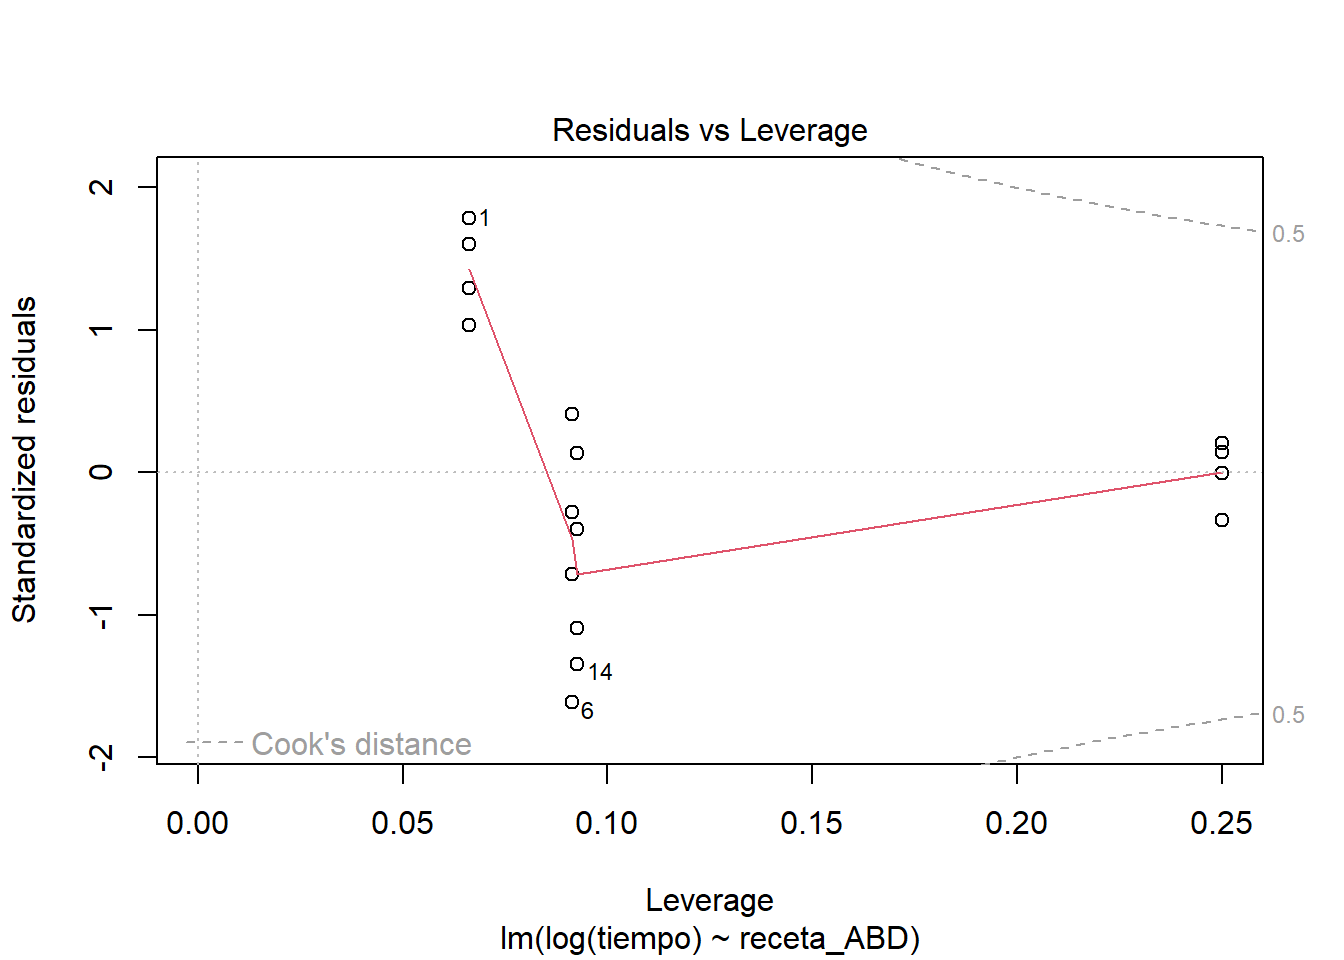
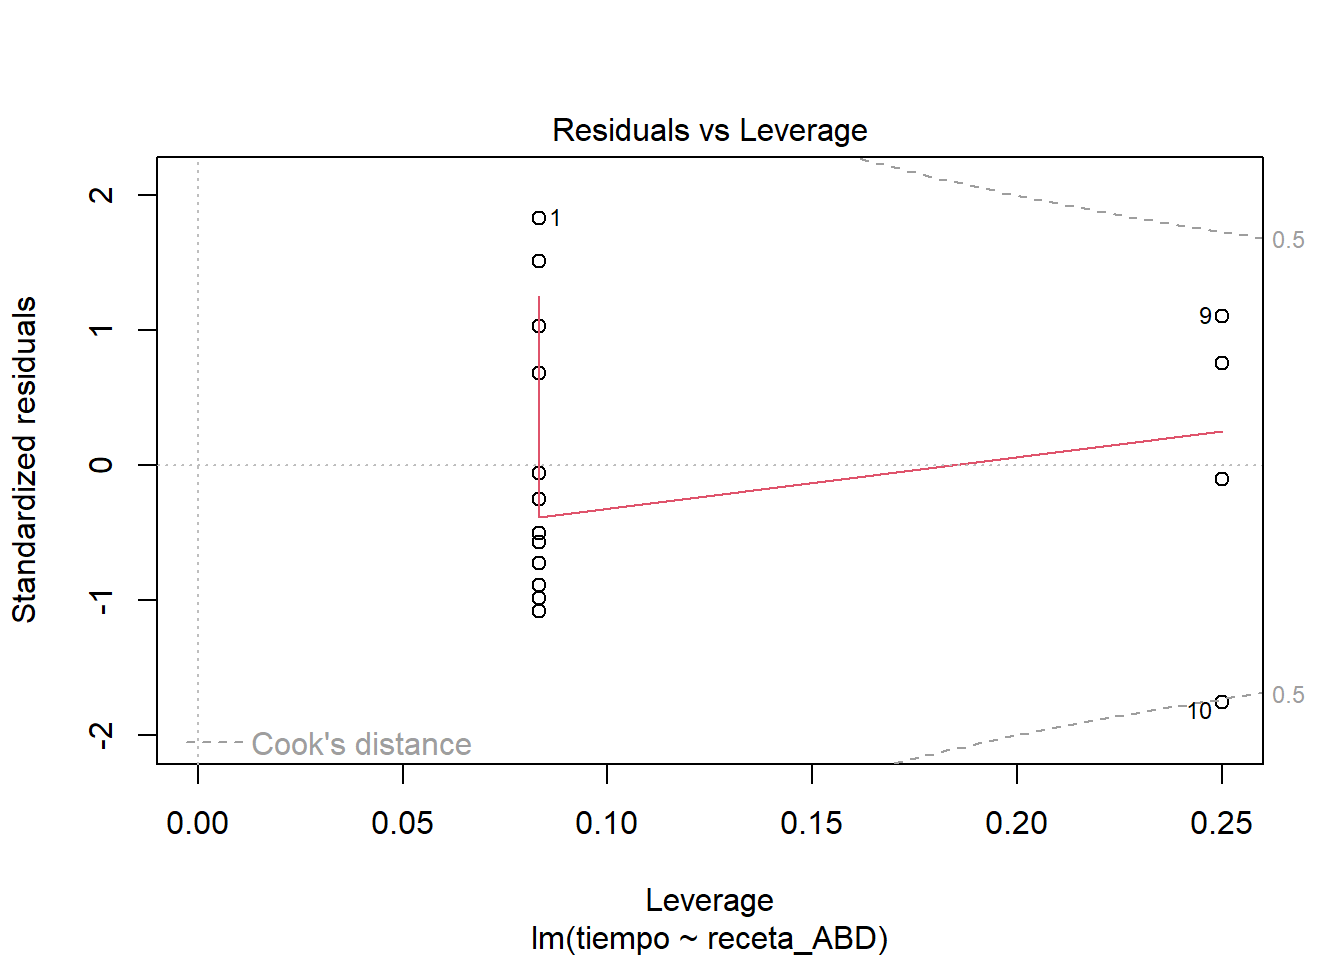
Analizame

diff --git a/Blog/_site/index.html b/Blog/_site/index.html
@@ -149,7 +149,7 @@ ul.task-list li input[type="checkbox"] {
 <!-- margin-sidebar -->
     <div id="quarto-margin-sidebar" class="sidebar margin-sidebar">
         
-    <h5 class="quarto-listing-category-title">Categorías</h5><div class="quarto-listing-category category-default"><div class="category" data-category="">Todas <span class="quarto-category-count">(14)</span></div><div class="category" data-category="anuncios">anuncios <span class="quarto-category-count">(2)</span></div><div class="category" data-category="clase">clase <span class="quarto-category-count">(9)</span></div><div class="category" data-category="taller">taller <span class="quarto-category-count">(1)</span></div></div></div>
+    <h5 class="quarto-listing-category-title">Categorías</h5><div class="quarto-listing-category category-default"><div class="category" data-category="">Todas <span class="quarto-category-count">(13)</span></div><div class="category" data-category="anuncios">anuncios <span class="quarto-category-count">(2)</span></div><div class="category" data-category="clase">clase <span class="quarto-category-count">(9)</span></div><div class="category" data-category="taller">taller <span class="quarto-category-count">(2)</span></div></div></div>
 <!-- main -->
 <main class="content quarto-banner-title-block column-page-left" id="quarto-document-content">
 
@@ -162,71 +162,42 @@ ul.task-list li input[type="checkbox"] {
 
 <div class="quarto-listing quarto-listing-container-default" id="listing-listing">
 <div class="list quarto-listing-default">
-<div class="quarto-post image-right" data-index="0" data-listing-date-sort="1675663200000" data-listing-file-modified-sort="1675645045298" data-listing-reading-time-sort="0.72">
+<div class="quarto-post image-right" data-index="0" data-categories="taller" data-listing-date-sort="1675663200000" data-listing-file-modified-sort="1675664731691" data-listing-reading-time-sort="1.64">
 <div class="thumbnail">
-<a href="./posts/analizame/masa-pizza.html">
-<div class="thumbnail-image">
-
-</div>
-</a><p><a href="./posts/analizame/masa-pizza.html"></a></p>
+<p><a href="./posts/analizame/index.html"> <img src="./posts/analizame/chemistry.jpg" class="thumnail-image"> </a></p>
 </div>
 <div class="body">
-<a href="./posts/analizame/masa-pizza.html">
+<a href="./posts/analizame/index.html">
 <h3 class="no-anchor listing-title">
-Masa para Pizza
+Analízame
 </h3>
 <div class="listing-subtitle">
 
 </div>
+</a>
+<div class="listing-categories">
+<div class="listing-category" onclick="window.quartoListingCategory('taller'); return false;">
+taller
+</div>
+</div>
+<a href="./posts/analizame/index.html">
 <div class="listing-description">
-
+Hagamos el análisis de un par de ejemplos.
 </div>
 </a>
 </div>
 <div class="metadata">
-<a href="./posts/analizame/masa-pizza.html">
+<a href="./posts/analizame/index.html">
 <div class="listing-date">
 6 feb 2023
 </div>
 <div class="listing-author">
-Miguel Equihua
+Miguel Equihua, Alan Aguirre
 </div>
 </a>
 </div>
 </div>
-<div class="quarto-post image-right" data-index="1" data-listing-date-sort="1675663200000" data-listing-file-modified-sort="1675637234396" data-listing-reading-time-sort="5.025">
-<div class="thumbnail">
-<a href="./posts/analizame/venenos.html">
-<div class="thumbnail-image">
-
-</div>
-</a><p><a href="./posts/analizame/venenos.html"></a></p>
-</div>
-<div class="body">
-<a href="./posts/analizame/venenos.html">
-<h3 class="no-anchor listing-title">
-venenos
-</h3>
-<div class="listing-subtitle">
-
-</div>
-<div class="listing-description">
-se nota algo de heterogeneidad de varianzas Intentemos como primer modelo el completo.
-</div>
-</a>
-</div>
-<div class="metadata">
-<a href="./posts/analizame/venenos.html">
-<div class="listing-date">
-6 feb 2023
-</div>
-<div class="listing-author">
-Miguel Equihua
-</div>
-</a>
-</div>
-</div>
-<div class="quarto-post image-right" data-index="2" data-categories="taller" data-listing-date-sort="1675663200000" data-listing-file-modified-sort="1675663422589" data-listing-reading-time-sort="0.415">
+<div class="quarto-post image-right" data-index="1" data-categories="taller" data-listing-date-sort="1675663200000" data-listing-file-modified-sort="1675663422589" data-listing-reading-time-sort="0.415">
 <div class="thumbnail">
 <p><a href="./posts/experimentar/index.html"> <img src="./posts/experimentar/Planeta-en-botella.jpg" class="thumnail-image"> </a></p>
 </div>
@@ -261,7 +232,7 @@ Miguel Equihua, Alan Aguirre
 </a>
 </div>
 </div>
-<div class="quarto-post image-right" data-index="3" data-categories="clase" data-listing-date-sort="1675404000000" data-listing-file-modified-sort="1675615547086" data-listing-reading-time-sort="12.645">
+<div class="quarto-post image-right" data-index="2" data-categories="clase" data-listing-date-sort="1675404000000" data-listing-file-modified-sort="1675615547086" data-listing-reading-time-sort="12.645">
 <div class="thumbnail">
 <p><a href="./posts/medidas-repetidas/index.html"> <img src="./posts/medidas-repetidas/Picea-sitchensis-Sitka-Spruce-08.jpg" class="thumnail-image"> </a></p>
 </div>
@@ -296,7 +267,7 @@ Miguel Equihua, Alan Aguirre
 </a>
 </div>
 </div>
-<div class="quarto-post image-right" data-index="4" data-categories="clase" data-listing-date-sort="1675404000000" data-listing-file-modified-sort="1675387872246" data-listing-reading-time-sort="20.415">
+<div class="quarto-post image-right" data-index="3" data-categories="clase" data-listing-date-sort="1675404000000" data-listing-file-modified-sort="1675387872246" data-listing-reading-time-sort="20.415">
 <div class="thumbnail">
 <p><a href="./posts/modelos-mixtos/index.html"> <img src="./posts/modelos-mixtos/arboles.jpeg" class="thumnail-image"> </a></p>
 </div>
@@ -331,7 +302,7 @@ Miguel Equihua, Alan Aguirre
 </a>
 </div>
 </div>
-<div class="quarto-post image-right" data-index="5" data-categories="clase" data-listing-date-sort="1675317600000" data-listing-file-modified-sort="1675406591221" data-listing-reading-time-sort="7.79">
+<div class="quarto-post image-right" data-index="4" data-categories="clase" data-listing-date-sort="1675317600000" data-listing-file-modified-sort="1675406591221" data-listing-reading-time-sort="7.79">
 <div class="thumbnail">
 <p><a href="./posts/experimentos-anidados/index.html"> <img src="./posts/experimentos-anidados/ratas-de-lab.png" class="thumnail-image"> </a></p>
 </div>
@@ -366,7 +337,7 @@ Miguel Equihua, Alan Aguirre
 </a>
 </div>
 </div>
-<div class="quarto-post image-right" data-index="6" data-categories="clase" data-listing-date-sort="1675231200000" data-listing-file-modified-sort="1675302140389" data-listing-reading-time-sort="8.55">
+<div class="quarto-post image-right" data-index="5" data-categories="clase" data-listing-date-sort="1675231200000" data-listing-file-modified-sort="1675302140389" data-listing-reading-time-sort="8.55">
 <div class="thumbnail">
 <p><a href="./posts/restringir-aleatorizacion/index.html"> <img src="./posts/restringir-aleatorizacion/images/2012-AJ-12-10.jpg" class="thumnail-image"> </a></p>
 </div>
@@ -401,7 +372,7 @@ Miguel Equihua, Alan Aguirre
 </a>
 </div>
 </div>
-<div class="quarto-post image-right" data-index="7" data-categories="clase" data-listing-date-sort="1675058400000" data-listing-file-modified-sort="1675308873288" data-listing-reading-time-sort="7.325">
+<div class="quarto-post image-right" data-index="6" data-categories="clase" data-listing-date-sort="1675058400000" data-listing-file-modified-sort="1675308873288" data-listing-reading-time-sort="7.325">
 <div class="thumbnail">
 <p><a href="./posts/diagramas-causales/index.html"> <img src="./posts/diagramas-causales/images/autores_y_The_Book_of_Why.jpg" class="thumnail-image"> </a></p>
 </div>
@@ -436,7 +407,7 @@ Miguel Equihua, Alan Aguirre
 </a>
 </div>
 </div>
-<div class="quarto-post image-right" data-index="8" data-categories="clase" data-listing-date-sort="1675058400000" data-listing-file-modified-sort="1675220310708" data-listing-reading-time-sort="9.985">
+<div class="quarto-post image-right" data-index="7" data-categories="clase" data-listing-date-sort="1675058400000" data-listing-file-modified-sort="1675220310708" data-listing-reading-time-sort="9.985">
 <div class="thumbnail">
 <p><a href="./posts/dis-comp-aleat/index.html"> <img src="./posts/dis-comp-aleat/maíz.jpg" class="thumnail-image"> </a></p>
 </div>
@@ -471,7 +442,7 @@ Miguel Equihua, Alan Aguirre
 </a>
 </div>
 </div>
-<div class="quarto-post image-right" data-index="9" data-categories="clase" data-listing-date-sort="1674885600000" data-listing-file-modified-sort="1675039033518" data-listing-reading-time-sort="0.775">
+<div class="quarto-post image-right" data-index="8" data-categories="clase" data-listing-date-sort="1674885600000" data-listing-file-modified-sort="1675039033518" data-listing-reading-time-sort="0.775">
 <div class="thumbnail">
 <p><a href="./posts/modelo-lineal/index.html"> <img src="./posts/modelo-lineal/mathematics.jpg" class="thumnail-image"> </a></p>
 </div>
@@ -506,7 +477,7 @@ Miguel Equihua, Alan Aguirre
 </a>
 </div>
 </div>
-<div class="quarto-post image-right" data-index="10" data-categories="clase" data-listing-date-sort="1674799200000" data-listing-file-modified-sort="1675134648050" data-listing-reading-time-sort="27.135">
+<div class="quarto-post image-right" data-index="9" data-categories="clase" data-listing-date-sort="1674799200000" data-listing-file-modified-sort="1675134648050" data-listing-reading-time-sort="27.135">
 <div class="thumbnail">
 <p><a href="./posts/concepto-y-modelos-experimentar/index.html"> <img src="./posts/concepto-y-modelos-experimentar/images/vampiro-dracula.png" class="thumnail-image"> </a></p>
 </div>
@@ -541,7 +512,7 @@ Miguel Equihua, Alan Aguirre
 </a>
 </div>
 </div>
-<div class="quarto-post image-right" data-index="11" data-categories="clase" data-listing-date-sort="1674712800000" data-listing-file-modified-sort="1674880784457" data-listing-reading-time-sort="1.145">
+<div class="quarto-post image-right" data-index="10" data-categories="clase" data-listing-date-sort="1674712800000" data-listing-file-modified-sort="1674880784457" data-listing-reading-time-sort="1.145">
 <div class="thumbnail">
 <p><a href="./posts/leyes-de-la-ciencia/index.html"> <img src="./posts/leyes-de-la-ciencia/abstract-95721_1920.jpg" class="thumnail-image"> </a></p>
 </div>
@@ -576,7 +547,7 @@ Miguel Equihua, Alan Aguirre
 </a>
 </div>
 </div>
-<div class="quarto-post image-right" data-index="12" data-categories="anuncios" data-listing-date-sort="1674626400000" data-listing-file-modified-sort="1674880784378" data-listing-reading-time-sort="3.16">
+<div class="quarto-post image-right" data-index="11" data-categories="anuncios" data-listing-date-sort="1674626400000" data-listing-file-modified-sort="1674880784378" data-listing-reading-time-sort="3.16">
 <div class="thumbnail">
 <p><a href="./posts/bienvenida/index.html"> <img src="./posts/bienvenida/earth-977411_1920.jpg" class="thumnail-image"> </a></p>
 </div>
@@ -611,7 +582,7 @@ Miguel Equihua, Alan Aguirre
 </a>
 </div>
 </div>
-<div class="quarto-post image-right" data-index="13" data-categories="anuncios" data-listing-date-sort="1674626400000" data-listing-file-modified-sort="1674880784439" data-listing-reading-time-sort="0.25">
+<div class="quarto-post image-right" data-index="12" data-categories="anuncios" data-listing-date-sort="1674626400000" data-listing-file-modified-sort="1674880784439" data-listing-reading-time-sort="0.25">
 <div class="thumbnail">
 <p><a href="./posts/evaluacion/index.html"> <img src="./posts/evaluacion/virtual-5663279_1280.png" class="thumnail-image"> </a></p>
 </div>

diff --git a/Blog/_site/posts/analizame/masa-pizza.html b/Blog/_site/posts/analizame/masa-pizza.html
@@ -335,32 +335,42 @@ F-statistic: 19.43 on 1 and 14 DF,  p-value: 0.0005951</code></pre>
 </div>
 </div>
 <div class="cell">
-<div class="sourceCode cell-code" id="cb16"><pre class="sourceCode r code-with-copy"><code class="sourceCode r"><span id="cb16-1"><a href="#cb16-1" aria-hidden="true" tabindex="-1"></a><span class="co"># Modelo asumiendo heterocedasticidad</span></span>
+<div class="sourceCode cell-code" id="cb16"><pre class="sourceCode r code-with-copy"><code class="sourceCode r"><span id="cb16-1"><a href="#cb16-1" aria-hidden="true" tabindex="-1"></a><span class="co"># Modelo ponderado para enfrentarnos a la heterocedasticidad</span></span>
 <span id="cb16-2"><a href="#cb16-2" aria-hidden="true" tabindex="-1"></a><span class="co"># Defino los ponderadores a usar</span></span>
-<span id="cb16-3"><a href="#cb16-3" aria-hidden="true" tabindex="-1"></a>wt <span class="ot">&lt;-</span> <span class="dv">1</span> <span class="sc">/</span> <span class="fu">lm</span>(<span class="fu">abs</span>(masa_lm<span class="sc">$</span>residuals) <span class="sc">~</span> masa_lm<span class="sc">$</span>fitted.values)<span class="sc">$</span>fitted.values<span class="sc">^</span><span class="dv">2</span></span>
-<span id="cb16-4"><a href="#cb16-4" aria-hidden="true" tabindex="-1"></a>masa_lm_ABD_pond <span class="ot">&lt;-</span> <span class="fu">lm</span>(<span class="fu">log</span>(tiempo) <span class="sc">~</span> receta_ABD, <span class="at">data =</span> masa, <span class="at">weights =</span> wt)</span>
-<span id="cb16-5"><a href="#cb16-5" aria-hidden="true" tabindex="-1"></a><span class="fu">summary</span>(masa_lm_ABD_pond)</span></code><button title="Copy to Clipboard" class="code-copy-button"><i class="bi"></i></button></pre></div>
+<span id="cb16-3"><a href="#cb16-3" aria-hidden="true" tabindex="-1"></a>wt <span class="ot">&lt;-</span> <span class="dv">1</span> <span class="sc">/</span> <span class="fu">lm</span>(<span class="fu">abs</span>(masa_lm_ABD<span class="sc">$</span>residuals) <span class="sc">~</span> masa_lm_ABD<span class="sc">$</span>fitted.values)<span class="sc">$</span>fitted.values<span class="sc">^</span><span class="dv">2</span></span>
+<span id="cb16-4"><a href="#cb16-4" aria-hidden="true" tabindex="-1"></a>wt</span></code><button title="Copy to Clipboard" class="code-copy-button"><i class="bi"></i></button></pre></div>
+<div class="cell-output cell-output-stdout">
+<pre><code>           1            2            3            4            5            6 
+5.768306e-05 5.768306e-05 5.768306e-05 5.768306e-05 5.768306e-05 5.768306e-05 
+           7            8            9           10           11           12 
+5.768306e-05 5.768306e-05 3.429355e-04 3.429355e-04 3.429355e-04 3.429355e-04 
+          13           14           15           16 
+5.768306e-05 5.768306e-05 5.768306e-05 5.768306e-05 </code></pre>
+</div>
+<div class="sourceCode cell-code" id="cb18"><pre class="sourceCode r code-with-copy"><code class="sourceCode r"><span id="cb18-1"><a href="#cb18-1" aria-hidden="true" tabindex="-1"></a><span class="co"># Ajusto un modelo ponderado con mayor peso los tratamientos con menor varianza</span></span>
+<span id="cb18-2"><a href="#cb18-2" aria-hidden="true" tabindex="-1"></a>masa_lm_ABD_pond <span class="ot">&lt;-</span> <span class="fu">lm</span>(tiempo <span class="sc">~</span> receta_ABD, <span class="at">data =</span> masa, <span class="at">weights =</span> wt)</span>
+<span id="cb18-3"><a href="#cb18-3" aria-hidden="true" tabindex="-1"></a><span class="fu">summary</span>(masa_lm_ABD_pond)</span></code><button title="Copy to Clipboard" class="code-copy-button"><i class="bi"></i></button></pre></div>
 <div class="cell-output cell-output-stdout">
 <pre><code>
 Call:
-lm(formula = log(tiempo) ~ receta_ABD, data = masa, weights = wt)
+lm(formula = tiempo ~ receta_ABD, data = masa, weights = wt)
 
 Weighted Residuals:
-       Min         1Q     Median         3Q        Max 
--0.0144840 -0.0042887  0.0005512  0.0050758  0.0162045 
+    Min      1Q  Median      3Q     Max 
+-1.8889 -0.9114 -0.2027  0.9074  2.1740 
 
 Coefficients:
             Estimate Std. Error t value Pr(&gt;|t|)    
-(Intercept)   5.4644     0.1327  41.170 5.21e-16 ***
-receta_ABDC   1.0167     0.3105   3.275  0.00553 ** 
+(Intercept)   288.75      47.12   6.129 2.61e-05 ***
+receta_ABDC   367.25      57.79   6.355 1.78e-05 ***
 ---
 Signif. codes:  0 '***' 0.001 '**' 0.01 '*' 0.05 '.' 0.1 ' ' 1
 
-Residual standard error: 0.009401 on 14 degrees of freedom
-Multiple R-squared:  0.4337,    Adjusted R-squared:  0.3933 
-F-statistic: 10.72 on 1 and 14 DF,  p-value: 0.005534</code></pre>
+Residual standard error: 1.24 on 14 degrees of freedom
+Multiple R-squared:  0.7426,    Adjusted R-squared:  0.7242 
+F-statistic: 40.38 on 1 and 14 DF,  p-value: 1.785e-05</code></pre>
 </div>
-<div class="sourceCode cell-code" id="cb18"><pre class="sourceCode r code-with-copy"><code class="sourceCode r"><span id="cb18-1"><a href="#cb18-1" aria-hidden="true" tabindex="-1"></a><span class="fu">plot</span>((masa_lm_ABD_pond))</span></code><button title="Copy to Clipboard" class="code-copy-button"><i class="bi"></i></button></pre></div>
+<div class="sourceCode cell-code" id="cb20"><pre class="sourceCode r code-with-copy"><code class="sourceCode r"><span id="cb20-1"><a href="#cb20-1" aria-hidden="true" tabindex="-1"></a><span class="fu">plot</span>((masa_lm_ABD_pond))</span></code><button title="Copy to Clipboard" class="code-copy-button"><i class="bi"></i></button></pre></div>
 <div class="cell-output-display">
 <p><img src="masa-pizza_files/figure-html/unnamed-chunk-9-1.png" class="img-fluid" width="672"></p>
 </div>

diff --git a/Blog/_site/posts/analizame/index.html b/Blog/_site/posts/analizame/index.html
@@ -140,10 +140,12 @@ ul.task-list li input[type="checkbox"] {
 
 
 
-<section id="preparación-de-masa-para-pizza" class="level1">
-<h1>Preparación de Masa para Pizza</h1>
-<p><img src="pizza-masa.jpg" class="img-fluid"></p>
-<p>Para encontrar una mejor manera de hacer su pizza favorita, Marcelo se propueso reducir el tiempo que tarda en preparar la masa. Para hacerlo siguió el camino de la ciencia y diseñó un experimento para poner a prueba el efecto de la cantidad de azúcar y de leche en los tiempos de activación de la levadura. En concreto, probó cuatro recetas diferentes y midió cuántos segundos tardaba la misma cantidad de masa en llenar un recipiente hasta una marca quue fijo como referencia. Aleatorizó el orden de las recetas y repitió cada tratamiento 4 veces.</p>
+<p><img src="chemistry.jpg" class="img-fluid" width="400"></p>
+<p>Hagamos el análisis de un par de ejemplos.</p>
+<section id="preparación-de-masa-para-pizza" class="level2">
+<h2 class="anchored" data-anchor-id="preparación-de-masa-para-pizza">Preparación de Masa para Pizza</h2>
+<p><img src="pizza-masa.jpg" class="img-fluid" width="300"></p>
+<p>Para encontrar una mejor manera de hacer su pizza favorita, Marcelo se propuso reducir el tiempo que tarda en preparar la masa. Para hacerlo siguió el camino de la ciencia y diseñó un experimento para poner a prueba el efecto de la cantidad de azúcar y de leche en los tiempos de activación de la levadura. En concreto, probó cuatro recetas diferentes y midió cuántos segundos tardaba la misma cantidad de masa en llenar un recipiente hasta una marca que fijo como referencia. Aleatorizó el orden de las recetas y repitió cada tratamiento 4 veces.</p>
 <p><a href="masa-para-pizza.txt">Descargar los datos en formato de texto simple</a></p>
 <ol type="1">
 <li><span style="color:GoldenRod">¿Diseño experimental?</span></li>
@@ -158,9 +160,9 @@ ul.task-list li input[type="checkbox"] {
 <li><span style="color:GoldenRod">Argumenta tus conclusiones</span></li>
 </ol>
 </section>
-<section id="venenos" class="level1">
-<h1>Venenos</h1>
-<p><img src="bottles-5579576_1920.jpg" class="img-fluid"></p>
+<section id="venenos" class="level2">
+<h2 class="anchored" data-anchor-id="venenos">Venenos</h2>
+<p><img src="bottles-5579576_1920.jpg" class="img-fluid" width="300"></p>
 <p>El cuadro que sigue muestra el tiempo de sobrevivencia, en unidades de 10 horas, de animales a los que se administró uno de tres tipos de veneno (I II, III), seguido de uno de cuatro antídotos (A, B, C y D). Se usaron cuatro animales asignados al azar a las combinación de veneno y antídoto <strong>¿Alguno de los antídotos es más eficaz que los otros?</strong></p>
 <ol type="1">
 <li><span style="color:GoldenRod">¿Diseño experimental?</span></li>
